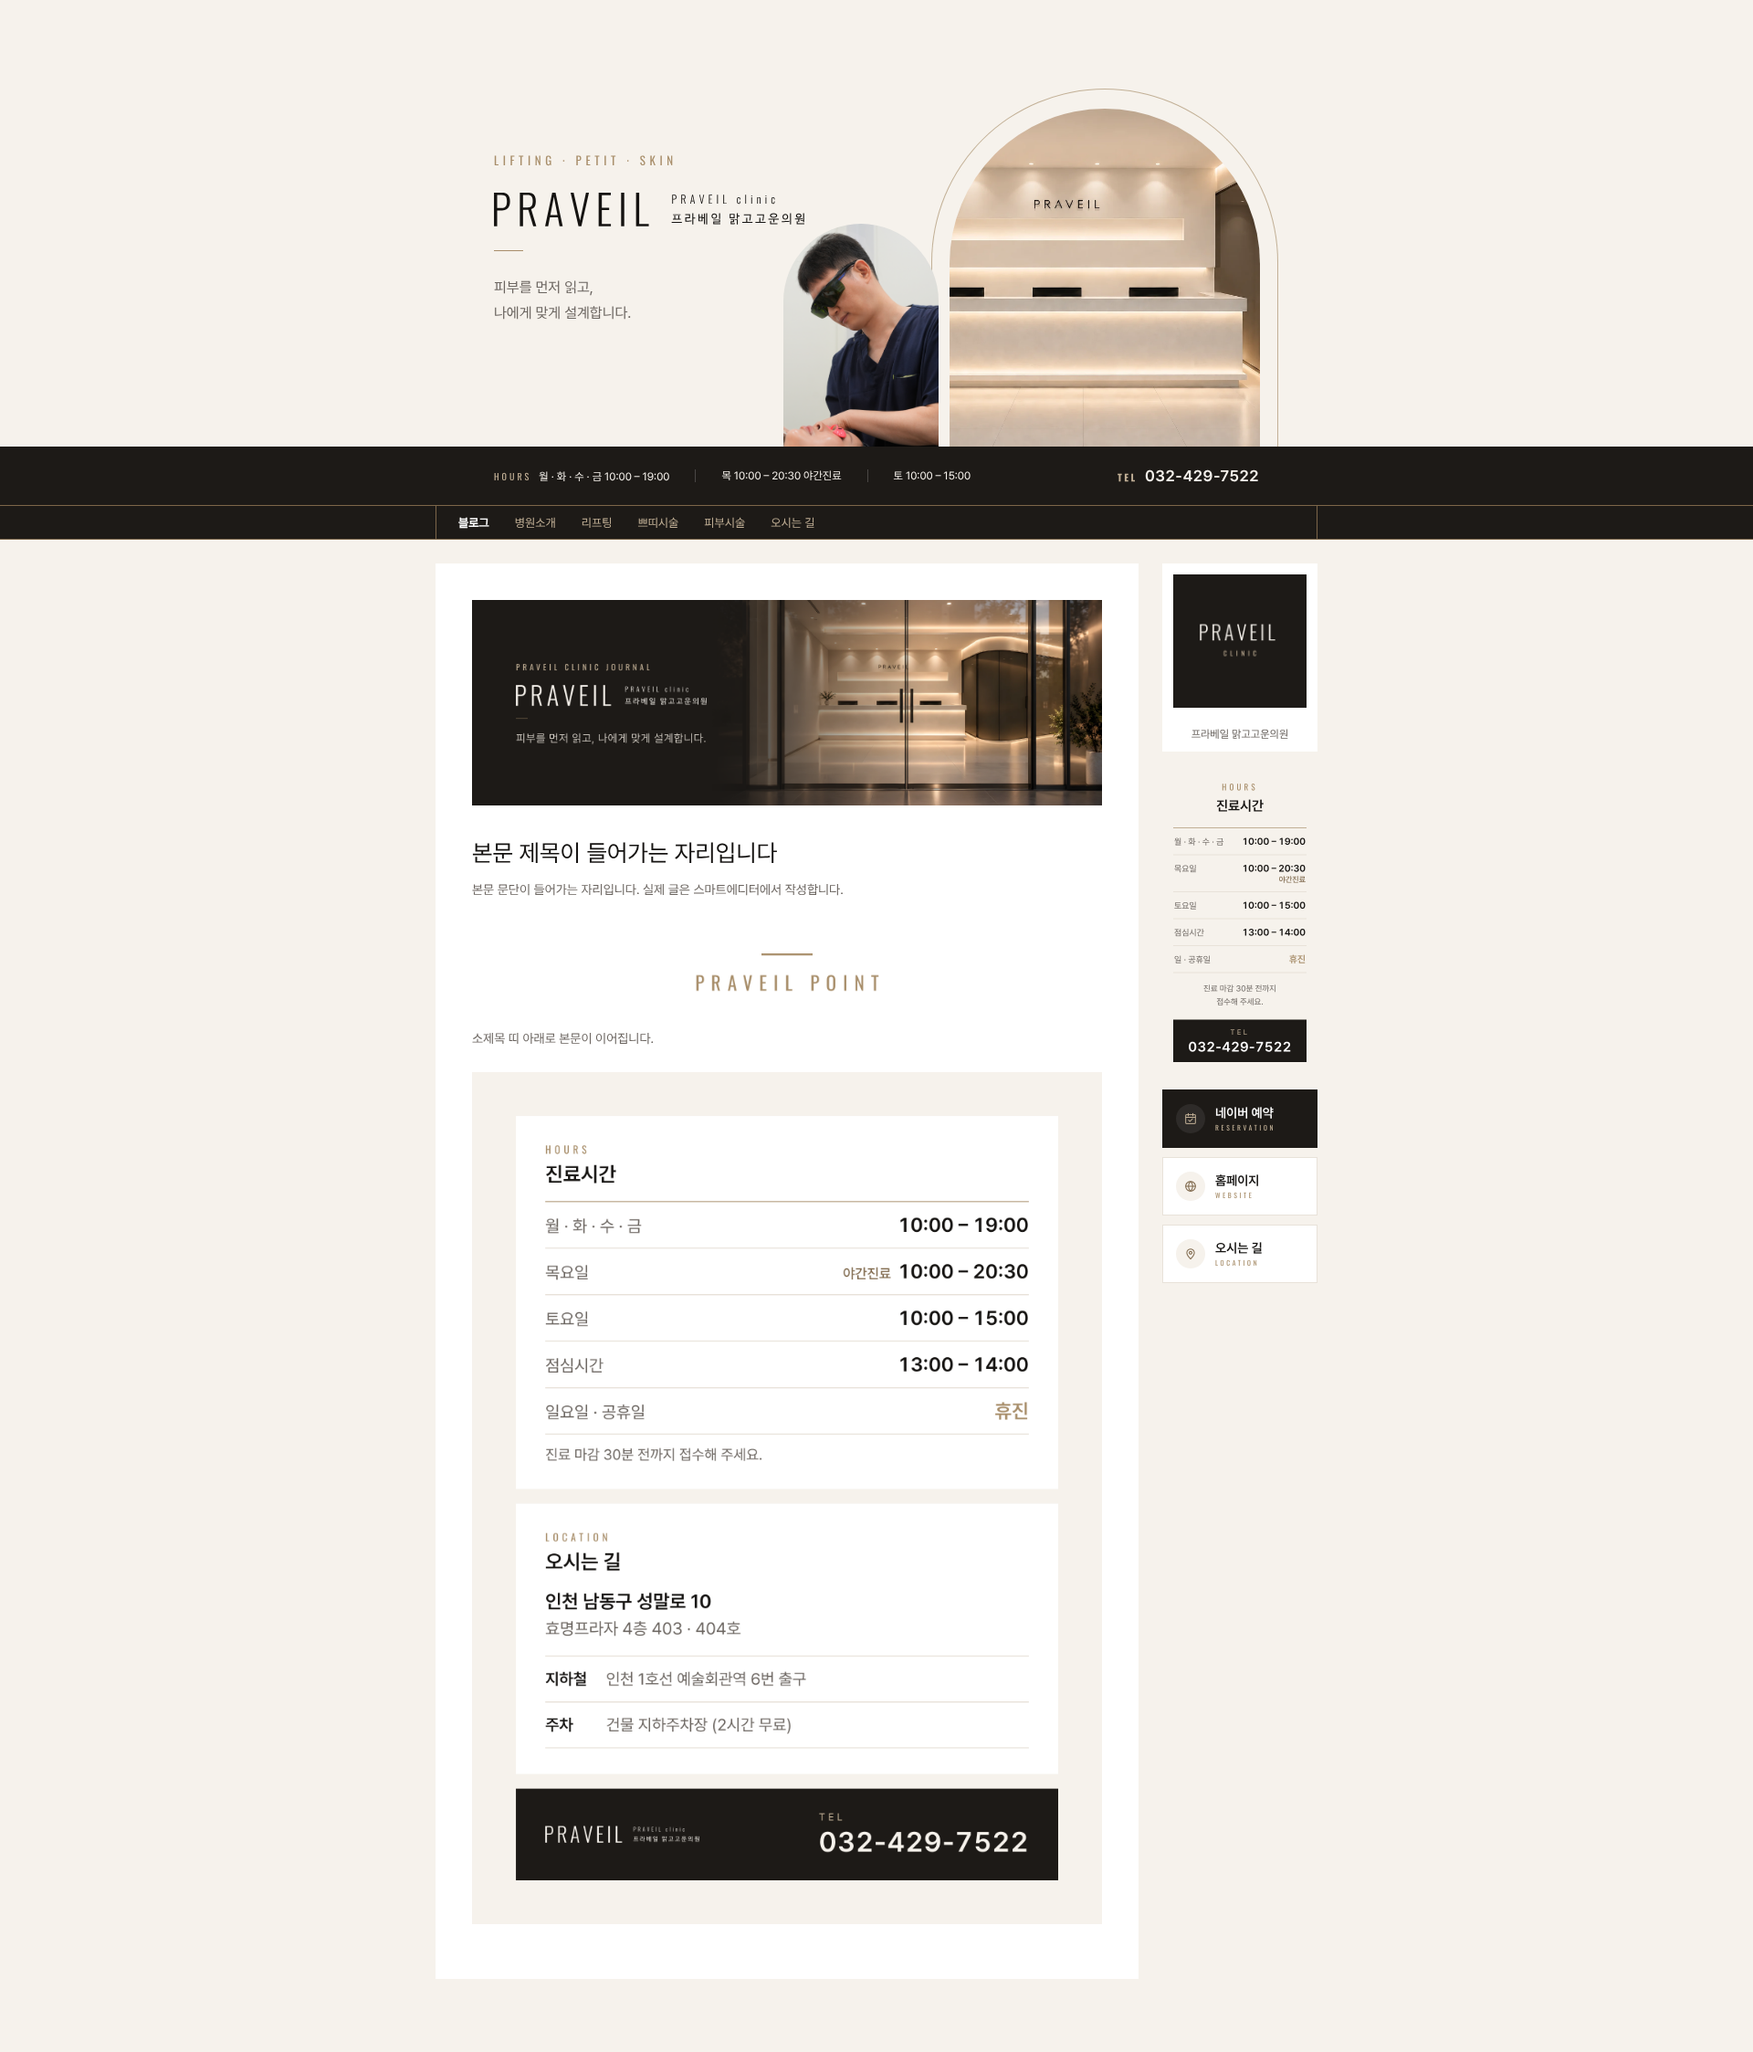
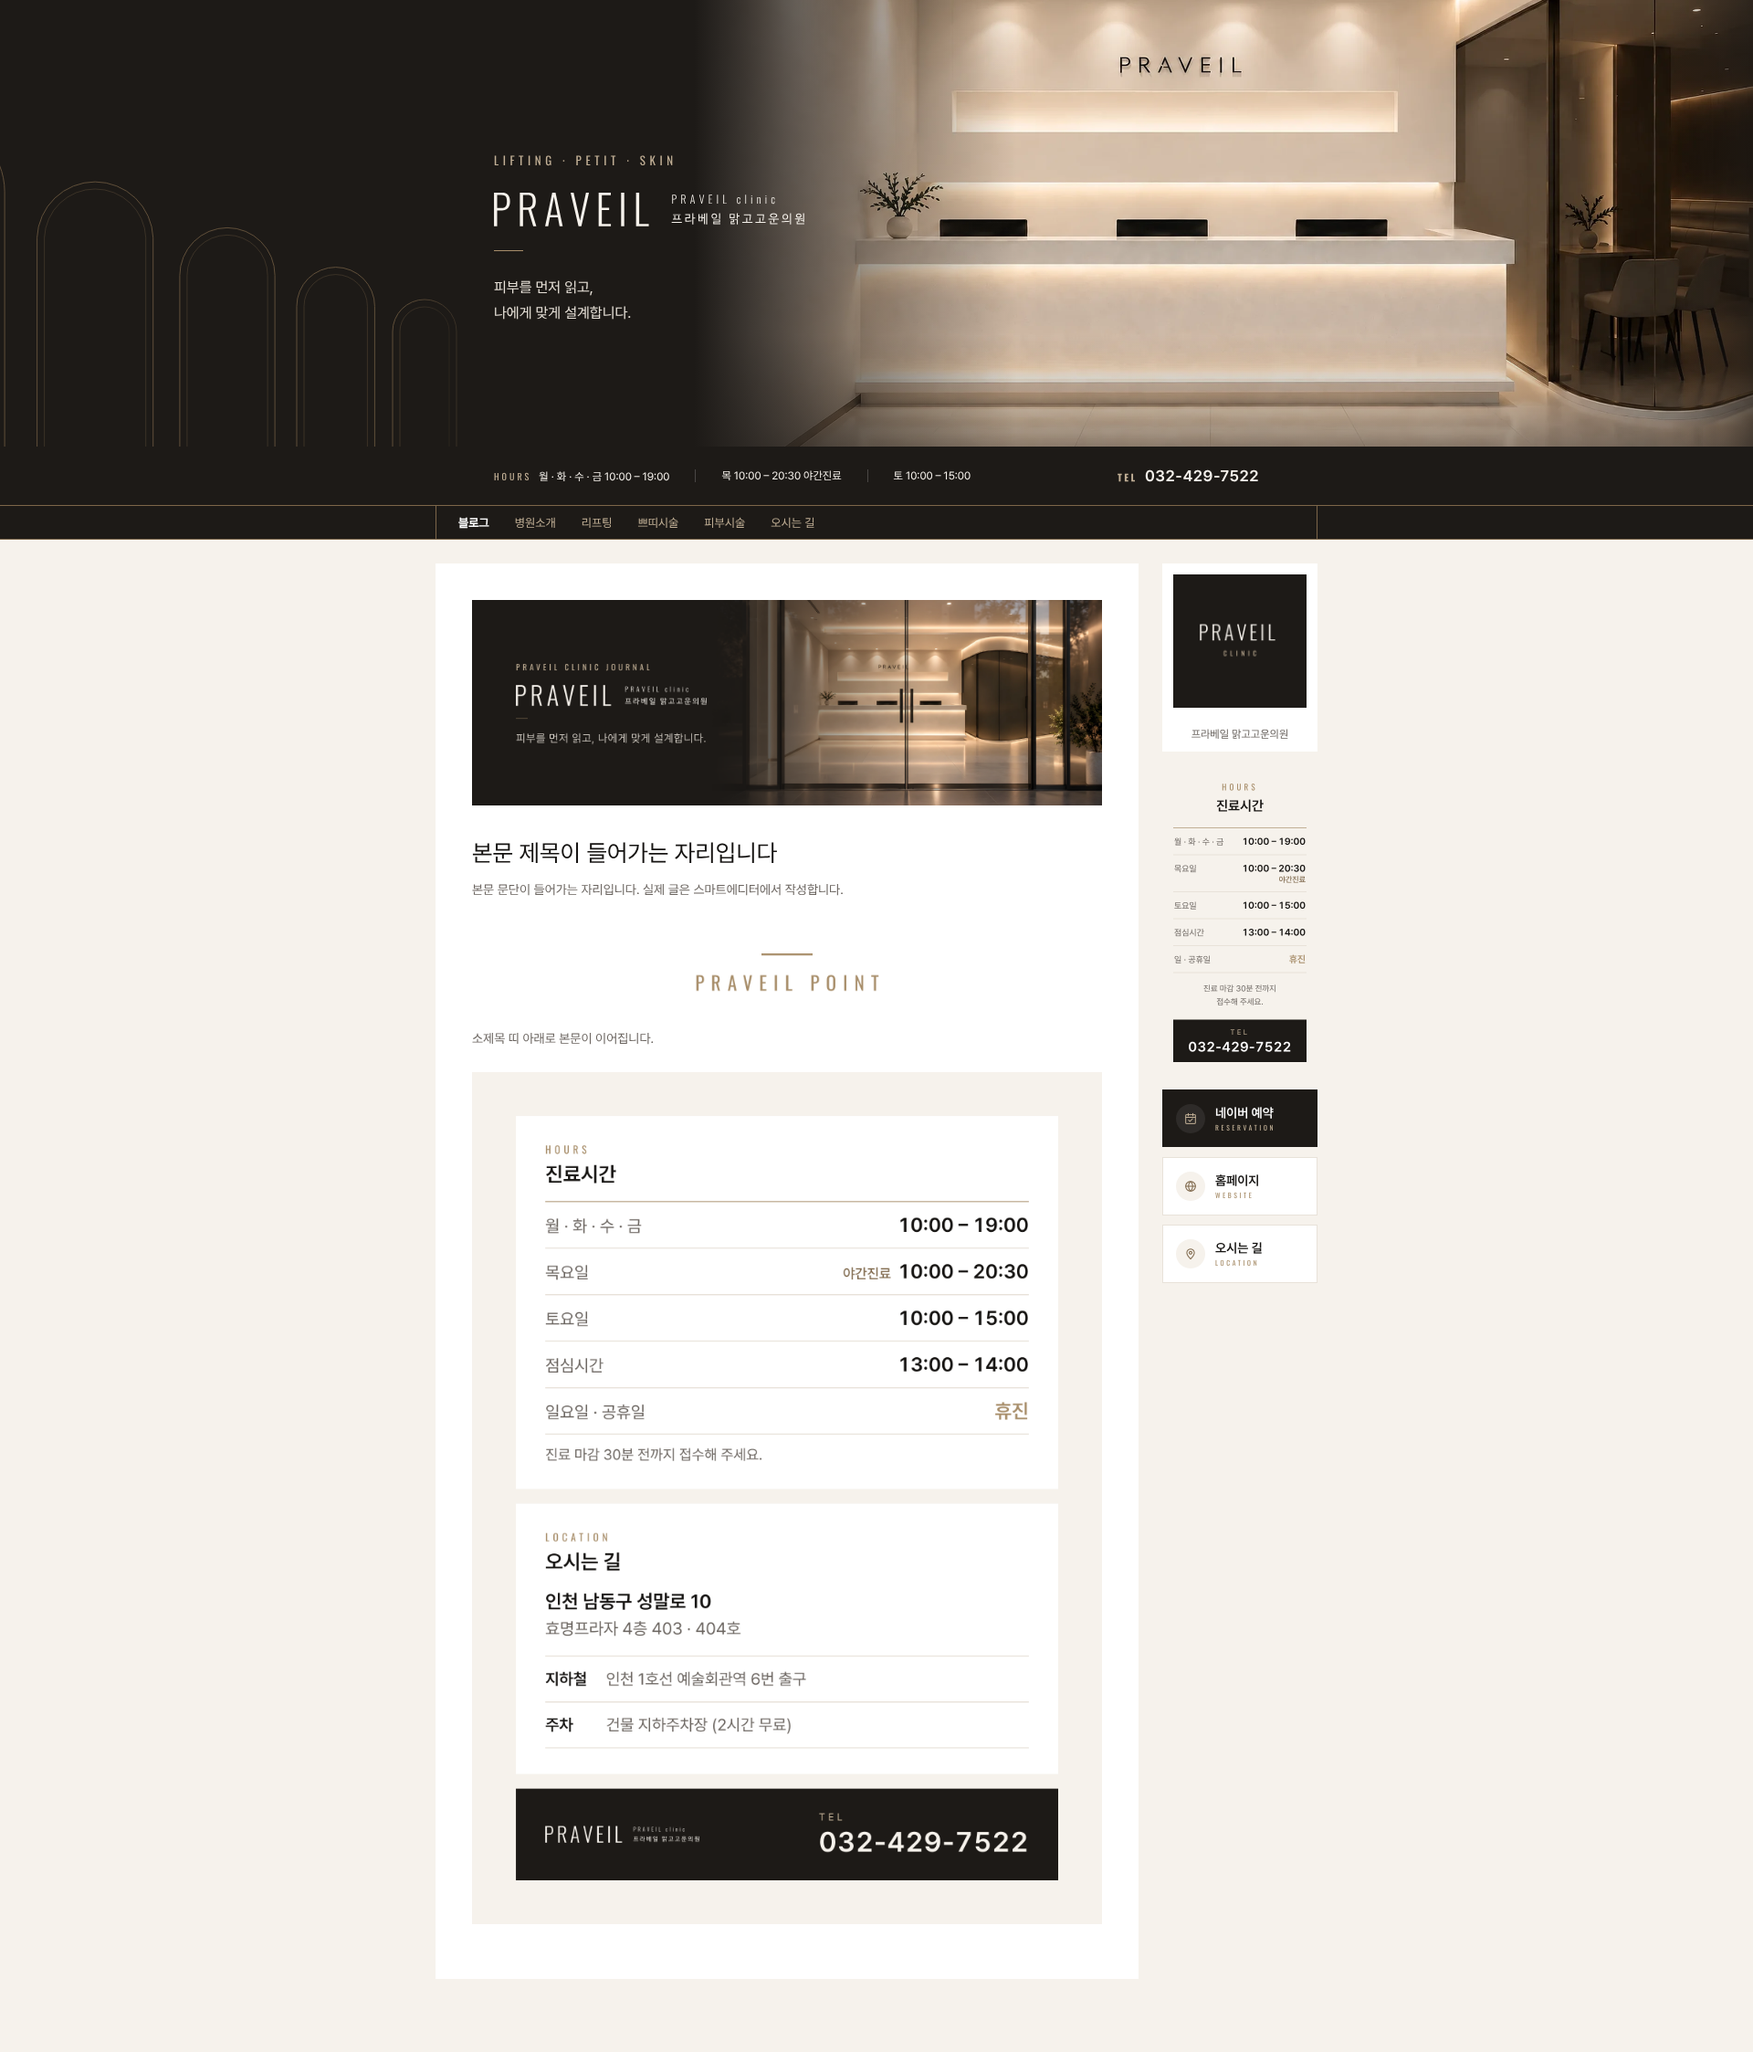
네이버 블로그 머리 배경을 로비 사진형(A)으로 확정, 왼쪽에 아치 문양 넣기
Claude-Session: https://claude.ai/code/session_01Ld2YJmc6iArSkVBjrjkKUN

Changed region(s): [[0.0, 0.0, 1.0, 0.2181]]

diff --git a/docs/naver-blog-skin/skin.html b/docs/naver-blog-skin/skin.html
@@ -100,65 +100,9 @@
         height: 520px;
         background: transparent;
       }
-      #background {
-        width: 2560px;
-        height: 600px;
-        background: var(--ivory);
-      }
-      #background .copy {
-        position: absolute;
-        left: 861px;
-        top: 33px;
-        bottom: 111px;
-        display: flex;
-        flex-direction: column;
-        justify-content: center;
-        gap: 26px;
-      }
-      #background .copy .en {
-        font-size: 13px;
-        color: var(--gold);
-      }
-      #background .logo {
-        width: 340px;
-        color: var(--ink);
-      }
-      #background .lead {
-        font-size: 16px;
-        line-height: 1.75;
-        color: var(--muted);
-      }
-      #background .arch {
-        position: absolute;
-        bottom: 111px;
-        overflow: hidden;
-      }
-      #background .arch.main {
-        right: 860px;
-        width: 340px;
-        height: 370px;
-        border-radius: 170px 170px 0 0;
-      }
-      #background .arch.side {
-        right: 1212px;
-        width: 170px;
-        height: 244px;
-        border-radius: 85px 85px 0 0;
-      }
       /* 원장 레이저 시술 사진: 얼굴과 핸드피스 · 시술 부위가 함께 보이게 */
-      #background .arch.side .photo,
       #mobile-cover .arch.side .photo {
         object-position: 62% 20%;
-      }
-      #background .arch-line {
-        position: absolute;
-        right: 840px;
-        bottom: 111px;
-        width: 380px;
-        height: 392px;
-        border: 1px solid var(--taupe);
-        border-bottom: 0;
-        border-radius: 190px 190px 0 0;
       }
       .hb .strip {
         position: absolute;
@@ -203,16 +147,13 @@
         border-bottom: 1px solid var(--mocha);
       }
 
-      /* 시안: 머리 배경을 병원 입구 사진으로 꽉 채우고, 왼쪽을 어둡게 깔아 글씨를 올림
-         (세로 위치 · 진료시간 띠 · 메뉴 띠는 위 배경과 같음) */
-      #background-photo,
-      #background-photo-2 {
+      /* 머리 배경: 로비 사진을 오른쪽에 멀리서 본 듯 작게 두고, 왼쪽은 짙은 바탕 + 아치 문양 위에 글씨 */
+      #background {
         width: 2560px;
         height: 600px;
         background: var(--ivory);
       }
-      #background-photo .shot,
-      #background-photo-2 .shot {
+      #background .shot {
         position: absolute;
         left: 1080px;
         top: 0;
@@ -220,15 +161,11 @@
         height: 489px;
         overflow: hidden;
       }
-      #background-photo .shot .photo {
+      #background .shot .photo {
         object-position: 50% 62%;
       }
-      #background-photo-2 .shot .photo {
-        object-position: 50% 58%;
-      }
       /* 글씨 쪽은 짙게, 사진 쪽은 밝게. 양 끝은 짙은 색으로 맞춰 가로 반복해도 이음매가 없음 */
-      #background-photo .shade,
-      #background-photo-2 .shade {
+      #background .shade {
         position: absolute;
         left: 0;
         right: 0;
@@ -245,8 +182,32 @@
           ),
           linear-gradient(rgba(29, 26, 23, 0) 75%, rgba(29, 26, 23, 0.45) 100%);
       }
-      #background-photo .copy,
-      #background-photo-2 .copy {
+      /* 왼쪽 짙은 여백의 아치 문양: 글씨 쪽으로 갈수록 작아져 사진 쪽 원근감과 이어짐.
+         왼쪽 끝은 흐리게 사라져 가로 반복 이음매가 보이지 않음 (선 색 = mocha) */
+      #background .pattern {
+        position: absolute;
+        left: 0;
+        top: 0;
+        opacity: 0.7;
+        -webkit-mask-image: linear-gradient(
+          90deg,
+          transparent 0,
+          #000 300px,
+          #000 760px,
+          transparent 860px
+        );
+        mask-image: linear-gradient(
+          90deg,
+          transparent 0,
+          #000 300px,
+          #000 760px,
+          transparent 860px
+        );
+      }
+      #background .pattern .in {
+        stroke-opacity: 0.45;
+      }
+      #background .copy {
         position: absolute;
         left: 861px;
         top: 33px;
@@ -257,17 +218,14 @@
         gap: 26px;
         color: var(--ivory);
       }
-      #background-photo .copy .en,
-      #background-photo-2 .copy .en {
+      #background .copy .en {
         font-size: 13px;
         color: var(--taupe);
       }
-      #background-photo .logo,
-      #background-photo-2 .logo {
+      #background .logo {
         width: 340px;
       }
-      #background-photo .lead,
-      #background-photo-2 .lead {
+      #background .lead {
         font-size: 16px;
         line-height: 1.75;
         color: var(--line);
@@ -677,71 +635,37 @@
     <!-- 1. 빈 타이틀 (투명) -->
     <section class="asset" id="title"></section>
 
-    <!-- 2. 스킨 배경: 화면 전체 폭 머리 -->
+    <!-- 2. 스킨 배경: 화면 전체 폭 머리 (로비 사진 + 왼쪽 아치 문양) -->
     <section class="asset hb" id="background">
-      <div class="copy">
-        <p class="en">Lifting · Petit · Skin</p>
-        <div class="logo">{{LOGO}}</div>
-        <div class="rule"></div>
-        <p class="lead">피부를 먼저 읽고,<br />나에게 맞게 설계합니다.</p>
-      </div>
-      <div class="arch-line"></div>
-      <div class="arch side">
-        <img
-          class="photo"
-          src="../../public/images/photos/retouched/laser.jpg"
-        />
-      </div>
-      <div class="arch main">
-        <img class="photo" src="../../public/images/photos/hero-lobby.webp" />
-      </div>
-      <div class="strip">
-        <span
-          ><span class="en">Hours</span>월 · 화 · 수 · 금 10:00 – 19:00</span
-        >
-        <i class="bar"></i>
-        <span>목 10:00 – 20:30 야간진료</span>
-        <i class="bar"></i>
-        <span>토 10:00 – 15:00</span>
-        <p class="tel"><span class="en">Tel</span>032-429-7522</p>
-      </div>
-      <div class="menu"></div>
-    </section>
-
-    <!-- 2-1. 시안: 로비 사진 (멀리서 본 듯 작게) -->
-    <section class="asset hb" id="background-photo">
       <div class="shot">
         <img class="photo" src="../../public/images/photos/hero-lobby.webp" />
       </div>
       <div class="shade"></div>
-      <div class="copy">
-        <p class="en">Lifting · Petit · Skin</p>
-        <div class="logo">{{LOGO}}</div>
-        <div class="rule"></div>
-        <p class="lead">피부를 먼저 읽고,<br />나에게 맞게 설계합니다.</p>
-      </div>
-      <div class="strip">
-        <span
-          ><span class="en">Hours</span>월 · 화 · 수 · 금 10:00 – 19:00</span
-        >
-        <i class="bar"></i>
-        <span>목 10:00 – 20:30 야간진료</span>
-        <i class="bar"></i>
-        <span>토 10:00 – 15:00</span>
-        <p class="tel"><span class="en">Tel</span>032-429-7522</p>
-      </div>
-      <div class="menu"></div>
-    </section>
-
-    <!-- 2-2. 시안: 입구 밖에서 본 사진 -->
-    <section class="asset hb" id="background-photo-2">
-      <div class="shot">
-        <img
-          class="photo"
-          src="../../public/images/photos/hero-entrance.webp"
-        />
-      </div>
-      <div class="shade"></div>
+      <svg class="pattern" width="900" height="489" viewBox="0 0 900 489">
+        <g fill="none" stroke="#7d6649" stroke-width="1">
+          <path d="M750.0 489 V363.0 a35.0 35.0 0 0 1 70.0 0 V489" />
+          <path class="in" d="M758.0 489 V363.0 a27.0 27.0 0 0 1 54.0 0 V489" />
+          <path d="M645.0 489 V335.3 a42.7 42.7 0 0 1 85.4 0 V489" />
+          <path class="in" d="M653.0 489 V335.3 a34.7 34.7 0 0 1 69.4 0 V489" />
+          <path d="M516.9 489 V301.5 a52.1 52.1 0 0 1 104.2 0 V489" />
+          <path class="in" d="M524.9 489 V301.5 a44.1 44.1 0 0 1 88.2 0 V489" />
+          <path d="M360.6 489 V260.2 a63.6 63.6 0 0 1 127.1 0 V489" />
+          <path
+            class="in"
+            d="M368.6 489 V260.2 a55.6 55.6 0 0 1 111.1 0 V489"
+          />
+          <path d="M170.0 489 V209.9 a77.5 77.5 0 0 1 155.1 0 V489" />
+          <path
+            class="in"
+            d="M178.0 489 V209.9 a69.5 69.5 0 0 1 139.1 0 V489"
+          />
+          <path d="M-62.7 489 V148.5 a94.6 94.6 0 0 1 189.2 0 V489" />
+          <path
+            class="in"
+            d="M-54.7 489 V148.5 a86.6 86.6 0 0 1 173.2 0 V489"
+          />
+        </g>
+      </svg>
       <div class="copy">
         <p class="en">Lifting · Petit · Skin</p>
         <div class="logo">{{LOGO}}</div>

diff --git a/docs/naver-blog-skin/README.md b/docs/naver-blog-skin/README.md
@@ -25,7 +25,7 @@
    기본 위젯 중 프로필 · 카테고리만 남기고 나머지(방문자 · 달력 · 태그 등)는 끕니다.
 2. **리모콘** (꾸미기 설정 → 세부 디자인 설정)
    - 스킨배경: 직접등록 → `background.png`, 위치 가운데(위) · **가로 반복**, 바탕색 `#f6f2ec`
-     머리 디자인(로고 · 사진 · 진료시간 띠 · 메뉴 뒤 짙은 띠)이 모두 이 배경에 있어 화면 끝까지 꽉 차 보입니다.
+     머리 디자인(로고 · 로비 사진 · 아치 문양 · 진료시간 띠 · 메뉴 뒤 짙은 띠)이 모두 이 배경에 있어 화면 끝까지 꽉 차 보입니다.
    - 타이틀: 블로그 제목 표시 끄기, **영역 높이 520**, 직접등록 → `title.png` (투명 그림. 높이가 다르면 메뉴가 배경 띠와 어긋납니다)
    - 블로그 메뉴: 바탕 `#1d1a17`, 글자 `#c2b096`, 선택한 메뉴 `#ffffff` (타이틀 아래 짙은 띠와 이어지게). 구분선 색을 고를 수 있으면 `#7d6649`
    - 포스트 영역 · 위젯 바탕: `#ffffff`, 테두리 · 구분선 `#e8e2d9`, 강조 글자 `#a88e6a`
